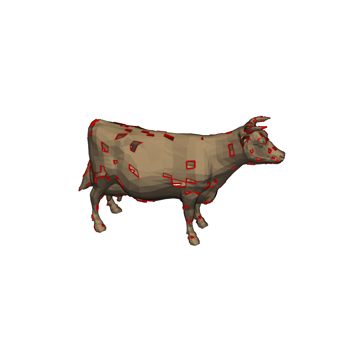
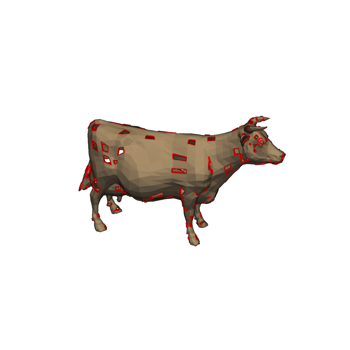
Update docs after building Travis build 83 of pyvista/pymeshfix
The docs were built from the branch 'master' against the commit
d8bb4e0ad93a92e9f489b860cbcf8b6f9eb6475c.

The Travis build that generated this commit is at
https://travis-ci.org/pyvista/pymeshfix/jobs/598947693.

The doctr command that was run is

    /home/travis/virtualenv/python3.7.1/bin/doctr deploy --built-docs ./docs/_build/html/ .

diff --git a/searchindex.js b/searchindex.js
@@ -1,1 +1,1 @@
-Search.setIndex({docnames:["api","examples/bunny","examples/cow","examples/index","examples/sg_execution_times","examples/torso","index"],envversion:{"sphinx.domains.c":1,"sphinx.domains.changeset":1,"sphinx.domains.cpp":1,"sphinx.domains.javascript":1,"sphinx.domains.math":2,"sphinx.domains.python":1,"sphinx.domains.rst":1,"sphinx.domains.std":1,sphinx:56},filenames:["api.rst","examples/bunny.rst","examples/cow.rst","examples/index.rst","examples/sg_execution_times.rst","examples/torso.rst","index.rst"],objects:{"pymeshfix.MeshFix":{extract_holes:[0,1,1,""],load_arrays:[0,1,1,""],mesh:[0,2,1,""],plot:[0,1,1,""],repair:[0,1,1,""],save:[0,1,1,""],write:[0,1,1,""]},pymeshfix:{MeshFix:[0,0,1,""],_meshfix:[0,3,0,"-"],meshfix:[0,3,0,"-"]}},objnames:{"0":["py","class","Python class"],"1":["py","method","Python method"],"2":["py","attribute","Python attribute"],"3":["py","module","Python module"]},objtypes:{"0":"py:class","1":"py:method","2":"py:attribute","3":"py:module"},terms:{"083e":5,"0x7f4bc0038768":2,"0x7f4bc0038948":5,"0x7f4bc0115d08":2,"320e":5,"442e":5,"446e":2,"624e":5,"637e":2,"680e":5,"696e":2,"701e":2,"720e":5,"760e":2,"998e":2,"case":6,"class":0,"default":0,"float":6,"import":[1,2,5,6],"new":0,"public":6,"return":[0,6],"true":[0,1,2,5],"while":6,FOR:6,One:6,The:6,There:6,Use:2,_meshfix:6,abov:6,absolut:5,access:[0,6],add:2,add_mesh:[1,2,5],addit:0,again:6,agreement:6,all:[0,6],allow:6,along:5,altern:6,ani:6,appi:5,approach:6,arg:0,argument:0,arrai:[0,2,5,6],ascii:0,assum:6,attempt:[0,6],atten:[0,6],author:6,award:6,base:[0,6],been:6,befor:0,begin:0,bell:6,better:6,binari:0,bool:0,both:0,bound:[2,5,6],boundari:[0,6],bring:6,bunni:[3,4],cad:6,camera:[1,2],camera_posit:[1,2,5],can:[0,6],cannot:6,cast:2,cell:[2,5],charact:0,check:6,cite:6,clean:[0,6],clean_from_arrai:6,clean_from_fil:6,click:[1,2,5],clone:6,close:6,cnr:6,coars:6,code:[1,2,5],color:[1,2,5],com:6,commerci:6,commun:6,complex:5,compon:[0,2,5,6],comput:6,contain:0,contract:6,control:6,copi:6,correct:6,could:6,cow:[3,4],cpo:[1,2,5],cpos_ear:5,creat:6,cython:[0,6],data:0,debug:0,defect:6,defin:1,degener:6,degeneraci:[1,2,5],deprec:[0,2],depth:[1,2,5],design:6,detail:6,digit:6,directli:6,disabl:0,disk:0,distribut:6,doi:6,download:[1,2,5],download_bunni:1,download_cow:2,download_torso:5,drive:6,dual:6,each:0,ear:5,eas:6,either:[0,6],element:6,emphas:5,enabl:0,enable_eye_dome_light:[1,2,5],ensur:5,even:6,exampl:[1,2,4,5],execut:4,extens:0,extract:[0,1,5],extract_geometri:2,extract_hol:[0,1,2,5],eye_dome_light:5,face:[0,6],fail:6,fals:0,faster:0,fclean:6,file:[0,4],filenam:0,filetyp:0,fill:6,fill_small_boundari:6,filter:5,fit:6,fix:[1,2,5],flaw:6,follow:[0,6],format:6,foundat:6,free:6,from:[0,1,2,5,6],ftype:0,full:[1,2,5],galleri:[1,2,3,5],gener:[1,2,3,5,6],git:6,github:6,gnu:6,gpl:6,hard:6,has:6,have:6,help:[1,2,5],here:[1,2,5,6],hole:[0,1,2,5,6],holei:[3,4],holy_cow:2,hope:6,how:6,http:6,idea:6,imati:6,impli:6,indic:0,infer:0,infil:6,inner_loop:6,inplac:0,input:6,instead:2,int32:6,interfac:0,intersect:[1,2,5,6],invert:2,ipynb:[1,2,5],isol:0,join:[0,6],join_closest_compon:6,joincomp:0,jupyt:[1,2,5],keyword:0,kwarg:0,largest:0,later:6,left:6,leverag:6,librari:6,licens:6,lightweight:6,line:0,line_width:[1,2,5],list:6,load:[0,6],load_arrai:[0,6],loadfil:6,locat:2,mai:[0,6],main:6,marco:[0,6],max_it:6,memori:6,merchant:6,mesh:[0,1,2,5,6],meshfix:[0,1,2,5,6],method:0,might:6,minut:[1,2,5],model:6,modifi:6,modul:[0,6],more:6,much:0,must:6,n_cell:2,nativ:6,ndarrai:0,nearbi:[0,6],necessari:6,need:5,nice:2,note:0,notebook:[1,2,5],numpi:[0,2,6],object:[0,6],occurr:6,one:0,open:0,option:[0,6],org:6,other:6,out:[1,2,5,6],outfil:6,outlin:[1,2,5],output:6,over:6,overridden:0,paper:6,paramet:0,part:[5,6],particular:6,patch:[1,2,5],percept:[1,2,5],perform:[0,6],perfrom:5,pip:6,pleas:6,plot:[0,1,2,5,6],plotter:[1,2,5],ply:[0,6],point:[0,2,5],polydata:[0,2,5],polygon:6,polyhedr:5,polyhedron:6,portabl:6,posit:1,present:6,print:[0,2,5,6],process:0,produc:6,program:6,proper:6,publish:6,purpos:6,pymeshfix:[0,1,2,5],pypi:6,python:[0,1,2,5,6],pytmesh:6,pyvista:[0,1,2,5,6],rand:2,random:2,raw:6,reach:6,read:6,readi:1,reason:6,redistribut:6,refer:6,region:6,remov:[0,2,5,6],remove_smallest_compon:0,render:[1,2],repair:[0,1,2,5,6],repres:6,requir:6,research:6,reserv:6,result:[2,6],return_arrai:6,right:6,root:2,run:[1,2,5,6],s00371:6,same:6,save:[0,6],save_fil:6,script:[1,2,5],second:[1,2,5],see:6,self:6,set:6,should:[0,6],show:[0,1,2,5],show_edg:5,show_hol:0,simpl:0,simpli:5,singl:6,singular:6,small:[2,5],softwar:6,solid:6,sort:6,sourc:[1,2,5,6],specif:6,specifi:0,speed:6,sphinx:[1,2,3,5],sphinx_gallery_thumbnail_numb:[1,2,5],springer:6,stl:0,str:0,string:0,subtl:5,surfac:[0,6],take:6,term:6,tessel:6,test:6,tetrahedr:0,than:0,thei:6,them:0,therefor:6,therein:6,thi:[0,5,6],three:0,threshold:2,thu:6,tight:5,time:[1,2,5],tin:6,tmesh:6,torso:[3,4],total:[1,2,4,5],tri_filt:[2,5],triangl:[0,5,6],triangul:2,triangular:0,txt:6,type:0,typic:6,unavail:6,under:6,understand:6,unless:0,unmodifi:6,updat:0,use:6,used:6,useful:6,user:6,uses:6,using:[0,6],vclean:6,verbos:[0,1,2,5],version:6,vertex:[0,6],view:6,visual:6,vtk:0,vtkinterfac:6,warn:2,warranti:6,water:5,watertight:6,where:[5,6],whistl:6,win:6,wish:6,with_vtk:6,within:6,wonder:6,work:6,wrap:0,wrapper:[0,6],write:[0,6],written:0,www:6,xyz:0,you:6,your:6},titles:["API Reference","Bunny","Holey Cow","Examples","Computation times","Torso","PyMeshFix"],titleterms:{algorithm:6,api:0,bunni:1,citat:6,complet:6,comput:4,copyright:6,cow:2,depend:6,easi:6,exampl:[3,6],holei:2,instal:6,polici:6,pymeshfix:6,refer:0,time:4,torso:5,vtk:6,without:6}})
+Search.setIndex({docnames:["api","examples/bunny","examples/cow","examples/index","examples/sg_execution_times","examples/torso","index"],envversion:{"sphinx.domains.c":1,"sphinx.domains.changeset":1,"sphinx.domains.cpp":1,"sphinx.domains.javascript":1,"sphinx.domains.math":2,"sphinx.domains.python":1,"sphinx.domains.rst":1,"sphinx.domains.std":1,sphinx:56},filenames:["api.rst","examples/bunny.rst","examples/cow.rst","examples/index.rst","examples/sg_execution_times.rst","examples/torso.rst","index.rst"],objects:{"pymeshfix.MeshFix":{extract_holes:[0,1,1,""],load_arrays:[0,1,1,""],mesh:[0,2,1,""],plot:[0,1,1,""],repair:[0,1,1,""],save:[0,1,1,""],write:[0,1,1,""]},pymeshfix:{MeshFix:[0,0,1,""],_meshfix:[0,3,0,"-"],meshfix:[0,3,0,"-"]}},objnames:{"0":["py","class","Python class"],"1":["py","method","Python method"],"2":["py","attribute","Python attribute"],"3":["py","module","Python module"]},objtypes:{"0":"py:class","1":"py:method","2":"py:attribute","3":"py:module"},terms:{"083e":5,"0x7f6d12aa36a8":2,"0x7f6d12aa3888":5,"0x7f6d1335ddc8":2,"320e":5,"442e":5,"446e":2,"624e":5,"637e":2,"680e":5,"696e":2,"701e":2,"720e":5,"760e":2,"998e":2,"case":6,"class":0,"default":0,"float":6,"import":[1,2,5,6],"new":0,"public":6,"return":[0,6],"true":[0,1,2,5],"while":6,FOR:6,One:6,The:6,There:6,Use:2,_meshfix:6,abov:6,absolut:5,access:[0,6],add:2,add_mesh:[1,2,5],addit:0,again:6,agreement:6,all:[0,6],allow:6,along:5,altern:6,ani:6,appi:5,approach:6,arg:0,argument:0,arrai:[0,2,5,6],ascii:0,assum:6,attempt:[0,6],atten:[0,6],author:6,award:6,base:[0,6],been:6,befor:0,begin:0,bell:6,better:6,binari:0,bool:0,both:0,bound:[2,5,6],boundari:[0,6],bring:6,bunni:[3,4],cad:6,camera:[1,2],camera_posit:[1,2,5],can:[0,6],cannot:6,cast:2,cell:[2,5],charact:0,check:6,cite:6,clean:[0,6],clean_from_arrai:6,clean_from_fil:6,click:[1,2,5],clone:6,close:6,cnr:6,coars:6,code:[1,2,5],color:[1,2,5],com:6,commerci:6,commun:6,complex:5,compon:[0,5,6],comput:6,contain:0,contract:6,control:6,copi:6,correct:6,could:6,cow:[3,4],cpo:[1,2,5],cpos_ear:5,creat:6,cython:[0,6],data:0,debug:0,defect:6,defin:1,degener:6,degeneraci:[1,2,5],deprec:[0,2],depth:[1,2,5],design:6,detail:6,digit:6,directli:6,disabl:0,disk:0,distribut:6,doi:6,download:[1,2,5],download_bunni:1,download_cow:2,download_torso:5,drive:6,dual:6,each:0,ear:5,eas:6,either:[0,6],element:6,emphas:5,enabl:0,enable_eye_dome_light:[1,2,5],ensur:5,even:6,exampl:[1,2,4,5],execut:4,extens:0,extract:[0,1,5],extract_geometri:2,extract_hol:[0,1,2,5],eye_dome_light:5,face:[0,6],fail:6,fals:0,faster:0,fclean:6,file:[0,4],filenam:0,filetyp:0,fill:6,fill_small_boundari:6,filter:5,fit:6,fix:[1,2,5],flaw:6,follow:[0,6],format:6,foundat:6,free:6,from:[0,1,2,5,6],ftype:0,full:[1,2,5],galleri:[1,2,3,5],gener:[1,2,3,5,6],git:6,github:6,gnu:6,gpl:6,hard:6,has:6,have:6,help:[1,2,5],here:[1,2,5,6],hole:[0,1,2,5,6],holei:[3,4],holy_cow:2,hope:6,how:6,http:6,idea:6,imati:6,impli:6,indic:0,infer:0,infil:6,inner_loop:6,inplac:0,input:6,instead:2,int32:6,interfac:0,intersect:[1,2,5,6],invert:2,ipynb:[1,2,5],isol:0,join:[0,6],join_closest_compon:6,joincomp:0,jupyt:[1,2,5],keyword:0,kwarg:0,largest:0,later:6,left:6,leverag:6,librari:6,licens:6,lightweight:6,line:0,line_width:[1,2,5],list:6,load:[0,6],load_arrai:[0,6],loadfil:6,locat:2,mai:[0,6],main:6,marco:[0,6],max_it:6,memori:6,merchant:6,mesh:[0,1,2,5,6],meshfix:[0,1,2,5,6],method:0,might:6,minut:[1,2,5],model:6,modifi:6,modul:[0,6],more:6,much:0,must:6,n_cell:2,nativ:6,ndarrai:0,nearbi:[0,6],necessari:6,need:5,nice:2,note:0,notebook:[1,2,5],numpi:[0,2,6],object:[0,6],occurr:6,one:0,open:0,option:[0,6],org:6,other:6,out:[1,2,5,6],outfil:6,outlin:[1,2,5],output:6,over:6,overridden:0,paper:6,paramet:0,part:[5,6],particular:6,patch:[1,2,5],percept:[1,2,5],perform:[0,6],perfrom:5,pip:6,pleas:6,plot:[0,1,2,5,6],plotter:[1,2,5],ply:[0,6],point:[0,2,5],polydata:[0,2,5],polygon:6,polyhedr:5,polyhedron:6,portabl:6,posit:1,present:6,print:[0,2,5,6],process:0,produc:6,program:6,proper:6,publish:6,purpos:6,pymeshfix:[0,1,2,5],pypi:6,python:[0,1,2,5,6],pytmesh:6,pyvista:[0,1,2,5,6],rand:2,random:2,raw:6,reach:6,read:6,readi:1,reason:6,redistribut:6,refer:6,region:6,remov:[0,5,6],remove_smallest_compon:0,render:[1,2],repair:[0,1,2,5,6],repres:6,requir:6,research:6,reserv:6,result:[2,6],return_arrai:6,right:6,root:2,run:[1,2,5,6],s00371:6,same:6,save:[0,6],save_fil:6,script:[1,2,5],second:[1,2,5],see:6,self:6,set:6,should:[0,6],show:[0,1,2,5],show_edg:5,show_hol:0,simpl:0,simpli:5,singl:6,singular:6,small:5,softwar:6,solid:6,sort:6,sourc:[1,2,5,6],specif:6,specifi:0,speed:6,sphinx:[1,2,3,5],sphinx_gallery_thumbnail_numb:[1,2,5],springer:6,stl:0,str:0,string:0,subtl:5,surfac:[0,6],take:6,term:6,tessel:6,test:6,tetrahedr:0,than:0,thei:6,them:0,therefor:6,therein:6,thi:[0,5,6],three:0,threshold:2,thu:6,tight:5,time:[1,2,5],tin:6,tmesh:6,torso:[3,4],total:[1,2,4,5],tri_filt:[2,5],triangl:[0,5,6],triangul:2,triangular:0,txt:6,type:0,typic:6,unavail:6,under:6,understand:6,unless:0,unmodifi:6,updat:0,use:6,used:6,useful:6,user:6,uses:6,using:[0,6],vclean:6,verbos:[0,1,2,5],version:6,vertex:[0,6],view:6,visual:6,vtk:0,vtkinterfac:6,warn:2,warranti:6,water:5,watertight:6,where:[5,6],whistl:6,win:6,wish:6,with_vtk:6,within:6,wonder:6,work:6,wrap:0,wrapper:[0,6],write:[0,6],written:0,www:6,xyz:0,you:6,your:6},titles:["API Reference","Bunny","Holey Cow","Examples","Computation times","Torso","PyMeshFix"],titleterms:{algorithm:6,api:0,bunni:1,citat:6,complet:6,comput:4,copyright:6,cow:2,depend:6,easi:6,exampl:[3,6],holei:2,instal:6,polici:6,pymeshfix:6,refer:0,time:4,torso:5,vtk:6,without:6}})

diff --git a/examples/cow.html b/examples/cow.html
@@ -9,7 +9,7 @@
   
   <meta name="viewport" content="width=device-width, initial-scale=1.0">
   
-  <title>Holey Cow &mdash; pymeshfix 0.13.2 documentation</title>
+  <title>Holey Cow &mdash; pymeshfix 0.13.3 documentation</title>
   
 
   
@@ -72,7 +72,7 @@
             
             
               <div class="version">
-                0.13.2
+                0.13.3
               </div>
             
           
@@ -224,8 +224,8 @@
 </div>
 <p class="sphx-glr-script-out">Out:</p>
 <div class="sphx-glr-script-out highlight-none notranslate"><div class="highlight"><pre><span></span>WARNING:root:DEPRECATED: ``.tri_filter`` is deprecated. Use ``.triangulate`` instead.
-PolyData (0x7f4bc0038768)
-  N Cells:      5224
+PolyData (0x7f6d12aa36a8)
+  N Cells:      5240
   N Points:     2903
   X Bounds:     -4.446e+00, 5.998e+00
   Y Bounds:     -3.637e+00, 2.760e+00
@@ -256,9 +256,8 @@ PolyData (0x7f4bc0038768)
 </pre></div>
 </div>
 <p class="sphx-glr-script-out">Out:</p>
-<div class="sphx-glr-script-out highlight-none notranslate"><div class="highlight"><pre><span></span>Removed 1 small components
-Patching holes...
-Patched 190 holes
+<div class="sphx-glr-script-out highlight-none notranslate"><div class="highlight"><pre><span></span>Patching holes...
+Patched 188 holes
 Fixing degeneracies and intersections
 </pre></div>
 </div>
@@ -268,9 +267,9 @@ Fixing degeneracies and intersections
 </pre></div>
 </div>
 <p class="sphx-glr-script-out">Out:</p>
-<div class="sphx-glr-script-out highlight-none notranslate"><div class="highlight"><pre><span></span>PolyData (0x7f4bc0115d08)
-  N Cells:      5456
-  N Points:     2730
+<div class="sphx-glr-script-out highlight-none notranslate"><div class="highlight"><pre><span></span>PolyData (0x7f6d1335ddc8)
+  N Cells:      5452
+  N Points:     2728
   X Bounds:     -3.696e+00, 5.998e+00
   Y Bounds:     -3.637e+00, 2.760e+00
   Z Bounds:     -1.701e+00, 1.701e+00
@@ -281,7 +280,7 @@ Fixing degeneracies and intersections
 </pre></div>
 </div>
 <img alt="../_images/sphx_glr_cow_002.png" class="sphx-glr-single-img" src="../_images/sphx_glr_cow_002.png" />
-<p class="sphx-glr-timing"><strong>Total running time of the script:</strong> ( 0 minutes  8.573 seconds)</p>
+<p class="sphx-glr-timing"><strong>Total running time of the script:</strong> ( 0 minutes  8.632 seconds)</p>
 <div class="sphx-glr-footer class sphx-glr-footer-example docutils container" id="sphx-glr-download-examples-cow-py">
 <div class="sphx-glr-download docutils container">
 <p><a class="reference download internal" download="" href="../_downloads/700f1bf357ea69088c0a34b0aa306d26/cow.py"><code class="xref download docutils literal notranslate"><span class="pre">Download</span> <span class="pre">Python</span> <span class="pre">source</span> <span class="pre">code:</span> <span class="pre">cow.py</span></code></a></p>

diff --git a/examples/sg_execution_times.html b/examples/sg_execution_times.html
@@ -9,7 +9,7 @@
   
   <meta name="viewport" content="width=device-width, initial-scale=1.0">
   
-  <title>Computation times &mdash; pymeshfix 0.13.2 documentation</title>
+  <title>Computation times &mdash; pymeshfix 0.13.3 documentation</title>
   
 
   
@@ -70,7 +70,7 @@
             
             
               <div class="version">
-                0.13.2
+                0.13.3
               </div>
             
           
@@ -193,11 +193,11 @@
             
   <div class="section" id="computation-times">
 <span id="sphx-glr-examples-sg-execution-times"></span><h1>Computation times<a class="headerlink" href="#computation-times" title="Permalink to this headline">¶</a></h1>
-<p><strong>00:55.054</strong> total execution time for <strong>examples</strong> files:</p>
+<p><strong>00:55.595</strong> total execution time for <strong>examples</strong> files:</p>
 <ul class="simple">
-<li><p><strong>00:27.599</strong>: <a class="reference internal" href="torso.html#sphx-glr-examples-torso-py"><span class="std std-ref">Torso</span></a> (<code class="docutils literal notranslate"><span class="pre">torso.py</span></code>)</p></li>
-<li><p><strong>00:18.882</strong>: <a class="reference internal" href="bunny.html#sphx-glr-examples-bunny-py"><span class="std std-ref">Bunny</span></a> (<code class="docutils literal notranslate"><span class="pre">bunny.py</span></code>)</p></li>
-<li><p><strong>00:08.573</strong>: <a class="reference internal" href="cow.html#sphx-glr-examples-cow-py"><span class="std std-ref">Holey Cow</span></a> (<code class="docutils literal notranslate"><span class="pre">cow.py</span></code>)</p></li>
+<li><p><strong>00:27.845</strong>: <a class="reference internal" href="torso.html#sphx-glr-examples-torso-py"><span class="std std-ref">Torso</span></a> (<code class="docutils literal notranslate"><span class="pre">torso.py</span></code>)</p></li>
+<li><p><strong>00:19.119</strong>: <a class="reference internal" href="bunny.html#sphx-glr-examples-bunny-py"><span class="std std-ref">Bunny</span></a> (<code class="docutils literal notranslate"><span class="pre">bunny.py</span></code>)</p></li>
+<li><p><strong>00:08.632</strong>: <a class="reference internal" href="cow.html#sphx-glr-examples-cow-py"><span class="std std-ref">Holey Cow</span></a> (<code class="docutils literal notranslate"><span class="pre">cow.py</span></code>)</p></li>
 </ul>
 </div>
 

diff --git a/examples/torso.html b/examples/torso.html
@@ -9,7 +9,7 @@
   
   <meta name="viewport" content="width=device-width, initial-scale=1.0">
   
-  <title>Torso &mdash; pymeshfix 0.13.2 documentation</title>
+  <title>Torso &mdash; pymeshfix 0.13.3 documentation</title>
   
 
   
@@ -72,7 +72,7 @@
             
             
               <div class="version">
-                0.13.2
+                0.13.3
               </div>
             
           
@@ -219,7 +219,7 @@ parts of the mesh</p>
 </pre></div>
 </div>
 <p class="sphx-glr-script-out">Out:</p>
-<div class="sphx-glr-script-out highlight-none notranslate"><div class="highlight"><pre><span></span>PolyData (0x7f4bc0038948)
+<div class="sphx-glr-script-out highlight-none notranslate"><div class="highlight"><pre><span></span>PolyData (0x7f6d12aa3888)
   N Cells:      12448
   N Points:     12015
   X Bounds:     -1.680e+02, 1.720e+02
@@ -282,7 +282,7 @@ Fixing degeneracies and intersections
 </pre></div>
 </div>
 <img alt="../_images/sphx_glr_torso_004.png" class="sphx-glr-single-img" src="../_images/sphx_glr_torso_004.png" />
-<p class="sphx-glr-timing"><strong>Total running time of the script:</strong> ( 0 minutes  27.599 seconds)</p>
+<p class="sphx-glr-timing"><strong>Total running time of the script:</strong> ( 0 minutes  27.845 seconds)</p>
 <div class="sphx-glr-footer class sphx-glr-footer-example docutils container" id="sphx-glr-download-examples-torso-py">
 <div class="sphx-glr-download docutils container">
 <p><a class="reference download internal" download="" href="../_downloads/988781b05954ec5068adbfe7a980b827/torso.py"><code class="xref download docutils literal notranslate"><span class="pre">Download</span> <span class="pre">Python</span> <span class="pre">source</span> <span class="pre">code:</span> <span class="pre">torso.py</span></code></a></p>

diff --git a/examples/bunny.html b/examples/bunny.html
@@ -9,7 +9,7 @@
   
   <meta name="viewport" content="width=device-width, initial-scale=1.0">
   
-  <title>Bunny &mdash; pymeshfix 0.13.2 documentation</title>
+  <title>Bunny &mdash; pymeshfix 0.13.3 documentation</title>
   
 
   
@@ -72,7 +72,7 @@
             
             
               <div class="version">
-                0.13.2
+                0.13.3
               </div>
             
           
@@ -255,7 +255,7 @@ Fixing degeneracies and intersections
 </pre></div>
 </div>
 <img alt="../_images/sphx_glr_bunny_003.png" class="sphx-glr-single-img" src="../_images/sphx_glr_bunny_003.png" />
-<p class="sphx-glr-timing"><strong>Total running time of the script:</strong> ( 0 minutes  18.882 seconds)</p>
+<p class="sphx-glr-timing"><strong>Total running time of the script:</strong> ( 0 minutes  19.119 seconds)</p>
 <div class="sphx-glr-footer class sphx-glr-footer-example docutils container" id="sphx-glr-download-examples-bunny-py">
 <div class="sphx-glr-download docutils container">
 <p><a class="reference download internal" download="" href="../_downloads/81a10a6450959c49a589aa8cee630836/bunny.py"><code class="xref download docutils literal notranslate"><span class="pre">Download</span> <span class="pre">Python</span> <span class="pre">source</span> <span class="pre">code:</span> <span class="pre">bunny.py</span></code></a></p>

diff --git a/py-modindex.html b/py-modindex.html
@@ -9,7 +9,7 @@
   
   <meta name="viewport" content="width=device-width, initial-scale=1.0">
   
-  <title>Python Module Index &mdash; pymeshfix 0.13.2 documentation</title>
+  <title>Python Module Index &mdash; pymeshfix 0.13.3 documentation</title>
   
 
   
@@ -73,7 +73,7 @@
             
             
               <div class="version">
-                0.13.2
+                0.13.3
               </div>
             
           

diff --git a/404.html b/404.html
@@ -9,7 +9,7 @@
   
   <meta name="viewport" content="width=device-width, initial-scale=1.0">
   
-  <title>Page not found &mdash; pymeshfix 0.13.2 documentation</title>
+  <title>Page not found &mdash; pymeshfix 0.13.3 documentation</title>
   
 
   
@@ -70,7 +70,7 @@
             
             
               <div class="version">
-                0.13.2
+                0.13.3
               </div>
             
           

diff --git a/api.html b/api.html
@@ -9,7 +9,7 @@
   
   <meta name="viewport" content="width=device-width, initial-scale=1.0">
   
-  <title>API Reference &mdash; pymeshfix 0.13.2 documentation</title>
+  <title>API Reference &mdash; pymeshfix 0.13.3 documentation</title>
   
 
   
@@ -71,7 +71,7 @@
             
             
               <div class="version">
-                0.13.2
+                0.13.3
               </div>
             
           

diff --git a/index.html b/index.html
@@ -9,7 +9,7 @@
   
   <meta name="viewport" content="width=device-width, initial-scale=1.0">
   
-  <title>PyMeshFix &mdash; pymeshfix 0.13.2 documentation</title>
+  <title>PyMeshFix &mdash; pymeshfix 0.13.3 documentation</title>
   
 
   
@@ -71,7 +71,7 @@
             
             
               <div class="version">
-                0.13.2
+                0.13.3
               </div>
             
           

diff --git a/examples/index.html b/examples/index.html
@@ -9,7 +9,7 @@
   
   <meta name="viewport" content="width=device-width, initial-scale=1.0">
   
-  <title>Examples &mdash; pymeshfix 0.13.2 documentation</title>
+  <title>Examples &mdash; pymeshfix 0.13.3 documentation</title>
   
 
   
@@ -72,7 +72,7 @@
             
             
               <div class="version">
-                0.13.2
+                0.13.3
               </div>
             
           

diff --git a/genindex.html b/genindex.html
@@ -10,7 +10,7 @@
   
   <meta name="viewport" content="width=device-width, initial-scale=1.0">
   
-  <title>Index &mdash; pymeshfix 0.13.2 documentation</title>
+  <title>Index &mdash; pymeshfix 0.13.3 documentation</title>
   
 
   
@@ -71,7 +71,7 @@
             
             
               <div class="version">
-                0.13.2
+                0.13.3
               </div>
             
           

diff --git a/search.html b/search.html
@@ -9,7 +9,7 @@
   
   <meta name="viewport" content="width=device-width, initial-scale=1.0">
   
-  <title>Search &mdash; pymeshfix 0.13.2 documentation</title>
+  <title>Search &mdash; pymeshfix 0.13.3 documentation</title>
   
 
   
@@ -71,7 +71,7 @@
             
             
               <div class="version">
-                0.13.2
+                0.13.3
               </div>
             
           
